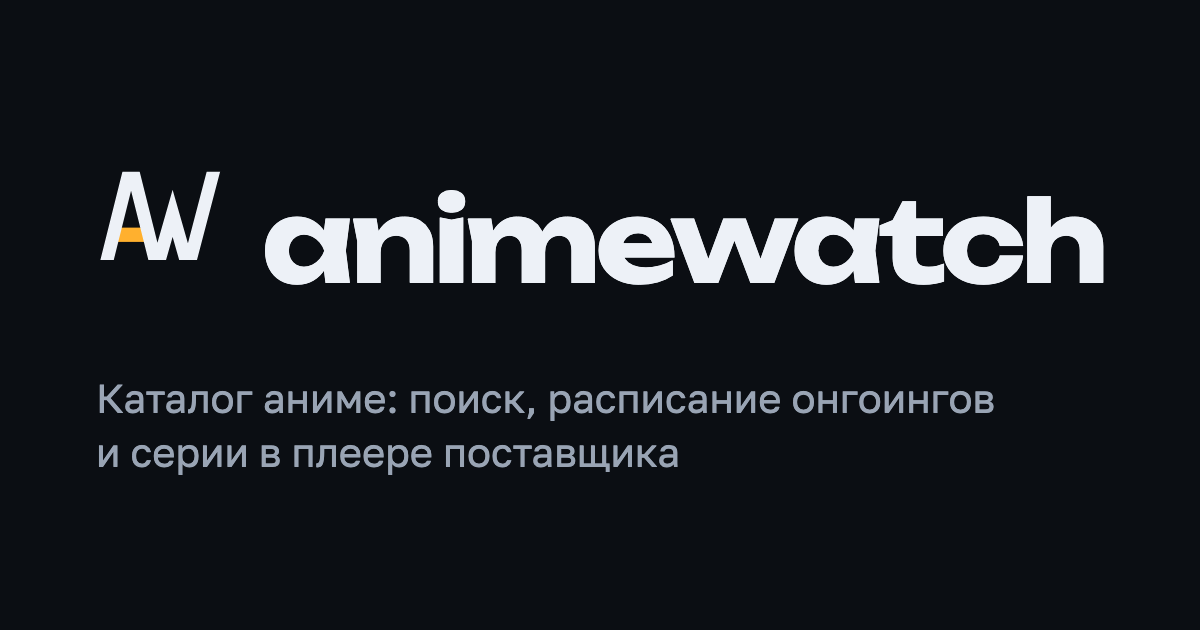
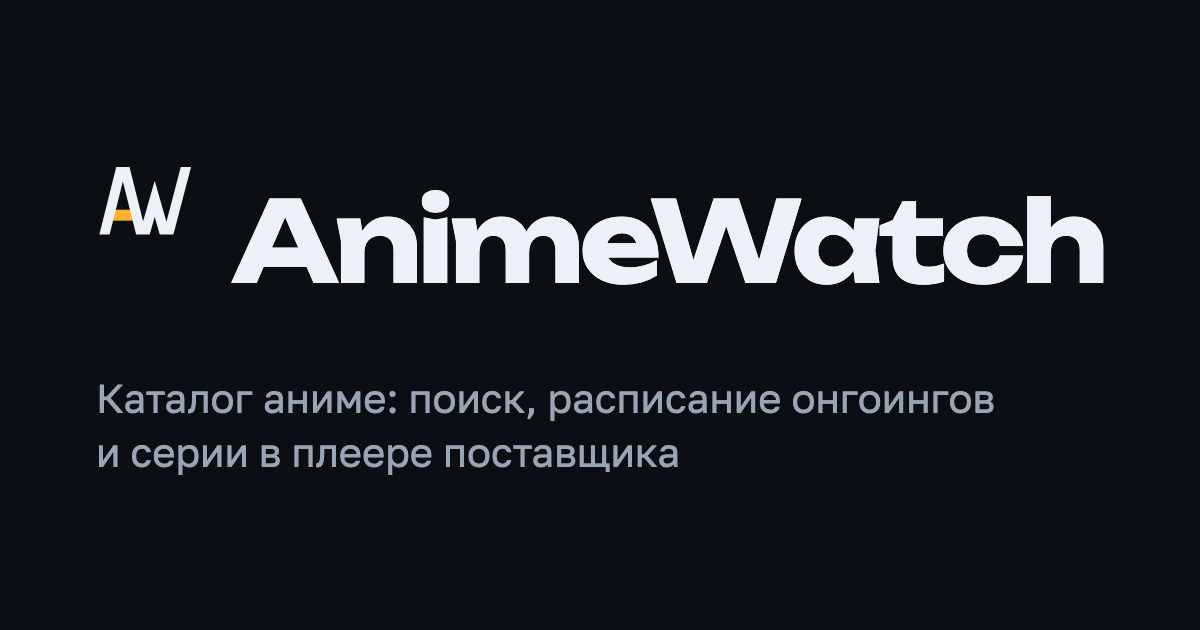
chore(brand): write the wordmark as AnimeWatch
The owner changed the header wordmark from "animewatch" to "AnimeWatch".
The link preview image is re-rendered with the same casing, docs/04 notes
the decision, and the e2e test looks the header link up by the new name.

Changed region(s): [[0.0617, 0.2714, 0.6783, 0.4524]]

diff --git a/components/site/logo-mark.tsx b/components/site/logo-mark.tsx
@@ -3,7 +3,7 @@
  * перекладина A — янтарный сигнал. Тот же рисунок, что public/brand/mark.svg, но в токенах:
  * буквы — цвет текста вокруг (currentColor), перекладина — signal.
  *
- * Декоративный: рядом всегда стоит слово «animewatch», и называет ссылку оно.
+ * Декоративный: рядом всегда стоит слово «AnimeWatch», и называет ссылку оно.
  */
 export function LogoMark({ className = "" }: { className?: string }) {
   return (

diff --git a/tests/e2e/seo.spec.ts b/tests/e2e/seo.spec.ts
@@ -88,5 +88,5 @@ test("знак: иконка вкладки, иконка телефона, ма
   }
 
   // Знак в шапке декоративный: ссылку называет слово рядом.
-  await expect(page.locator("header").getByRole("link", { name: "animewatch", exact: true })).toBeVisible();
+  await expect(page.locator("header").getByRole("link", { name: "AnimeWatch", exact: true })).toBeVisible();
 });

diff --git a/components/site/site-header.tsx b/components/site/site-header.tsx
@@ -49,7 +49,7 @@ export function SiteHeader() {
           className="-mx-2 inline-flex min-h-11 shrink-0 items-center gap-2 rounded-sm px-2 font-display text-lg font-bold tracking-tight"
         >
           <LogoMark className="size-6 shrink-0" />
-          animewatch
+          AnimeWatch
         </Link>
 
         <nav aria-label="Разделы" className="hidden lg:flex lg:items-center lg:gap-1">

diff --git a/docs/04-design-system.md b/docs/04-design-system.md
@@ -161,6 +161,8 @@
 Лигатура AW (решение владельца 2026-09-24 из пяти эскизов): правая нога A
 становится первым штрихом W — одна ломаная линия. Перекладина A — янтарь, и это
 единственный сигнал логотипа, поэтому прежняя янтарная точка после слова ушла.
+Слово рядом со знаком пишется «AnimeWatch», с двумя заглавными (решение
+владельца 2026-09-24): в шапке, в картинке превью и в названии сайта одинаково.
 Геометрия строгая: штрихи одной толщины (10 из 100), концы срезаны горизонтально
 по линии букв, как у шрифта, острая только средняя вершина W. Перекладина
 ниже середины и толще штриха: выше она пропадала между ногами уже в 24 px.
